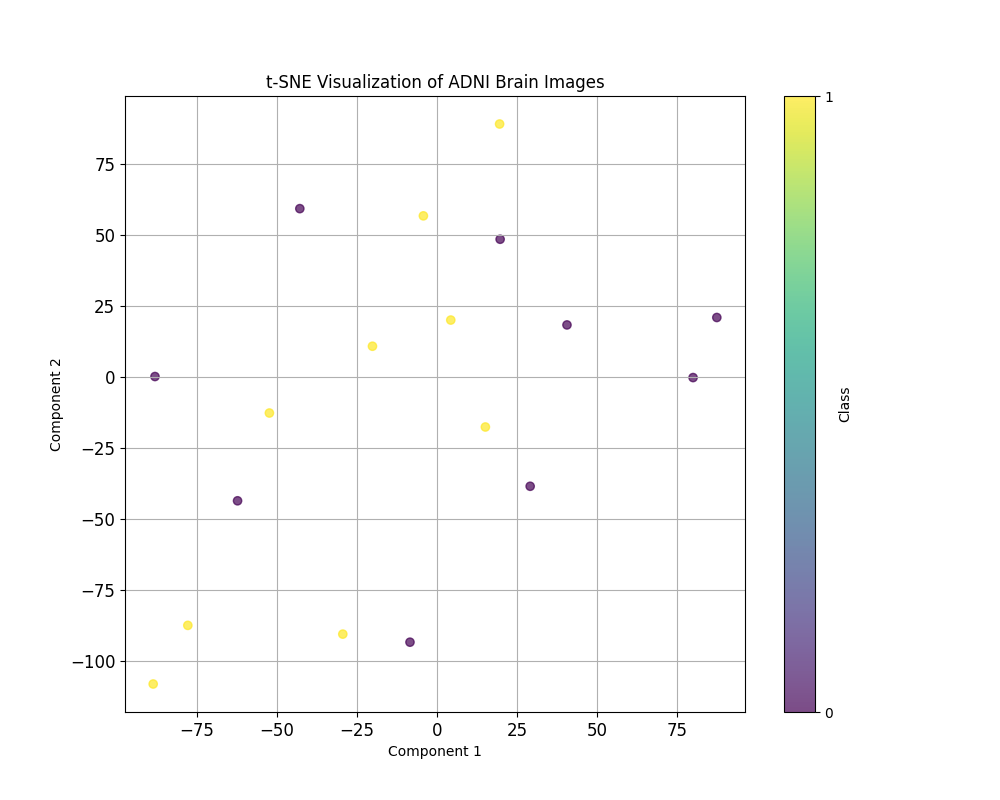
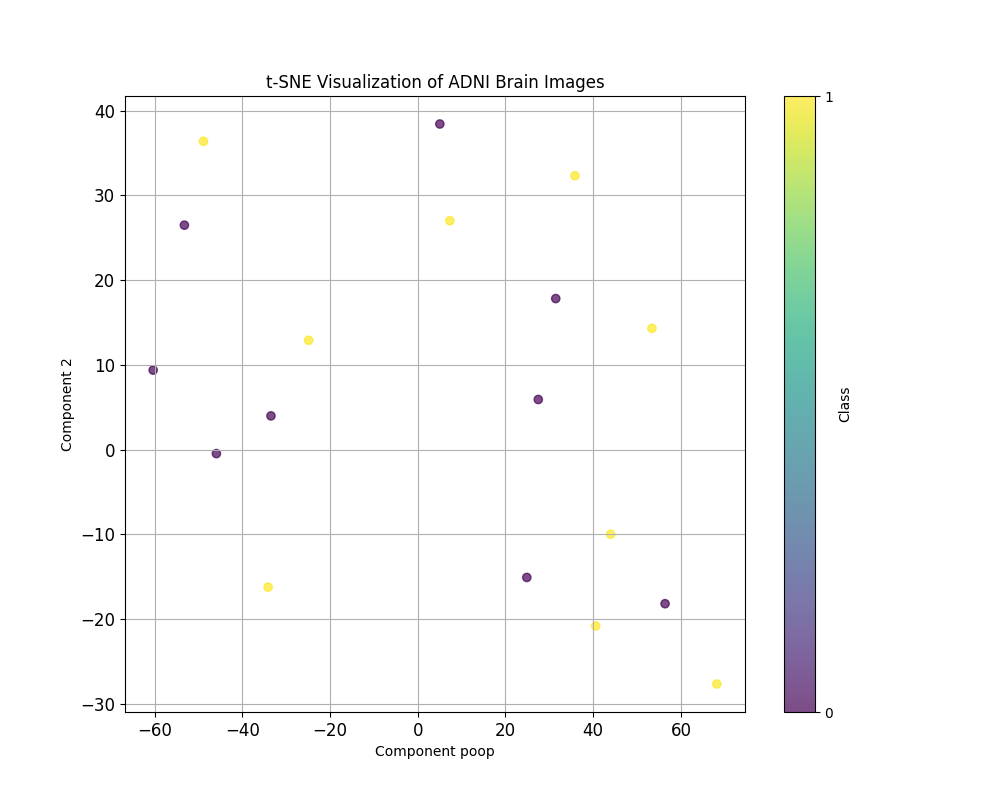
embedding.py model altered, readme updated

diff --git a/recognition/StyleGAN_VBV/embedding.py b/recognition/StyleGAN_VBV/embedding.py
@@ -1,6 +1,5 @@
 import torch
 import torchvision.transforms as transforms
-import torchvision.models as models
 import os
 import numpy as np
 import matplotlib.pyplot as plt
@@ -12,17 +11,12 @@ from PIL import Image
 ad_image_dir = '/home/Student/s4742656/PatternAnalysis-2024/recognition/StyleGAN_VBV/saved_examples/step5/seperate_images/AD'  
 nc_image_dir = '/home/Student/s4742656/PatternAnalysis-2024/recognition/StyleGAN_VBV/saved_examples/step5/seperate_images/NC' 
 
-# Load the pre-trained ResNet model
-model = models.resnet50(weights='IMAGENET1K_V1')  # Load ResNet50 model with ImageNet weights
-model.eval()  # Set to evaluation mode
-
 # Define the preprocessing transformations for the input images
 preprocess = transforms.Compose([
-    transforms.Resize((224, 224)),  # Resize imgs to 224x224
-    transforms.ToTensor(),  # Convert imgs to tensor format
+    transforms.Resize((224, 224)),  # Resize images to 224x224
+    transforms.ToTensor(),  # Convert images to tensor format
     transforms.Normalize(mean=[0.485, 0.456, 0.406], std=[0.229, 0.224, 0.225]),  # Normalize based on ImageNet stats
 ])
-
 
 def load_and_preprocess_images(image_dir, label):
     """ Load and preprocess images from a specified directory. """
@@ -36,10 +30,9 @@ def load_and_preprocess_images(image_dir, label):
         img_tensor = preprocess(img)  # Preprocess image
         img_tensor = img_tensor.unsqueeze(0)  # Add a batch dimension for model input
 
-        # Extract features using the pre-trained model
-        with torch.no_grad():  # Disable gradient computation for inference
-            feature = model(img_tensor)
-        features.append(feature.numpy().flatten())  # Flatten the feature tensor and append to the list
+        # Simple feature extraction: use pixel values as features
+        feature = img_tensor.numpy().flatten()  # Flatten the tensor and append to the list
+        features.append(feature)  # Append feature to the list
         labels.append(label)  # Append the label for this image
 
     return np.array(features), labels  # Return the features and labels as arrays

diff --git a/recognition/StyleGAN_VBV/README.md b/recognition/StyleGAN_VBV/README.md
@@ -95,7 +95,7 @@ The Discriminator evaluates the authenticity of both real and generated images. 
 </div>
 
 ### t-SNE Embedding
-- A t-SNE embedding visualization is generated to analyze the distribution of latent space representations. This helps in understanding how well the model captures the diversity of the training data.
+- This section of the code utilizes t-SNE (t-distributed Stochastic Neighbor Embedding) to visualize high-dimensional features extracted from brain images. Initially, PCA (Principal Component Analysis) is employed to reduce the dimensionality of the feature set while preserving variance. Subsequently, t-SNE projects these PCA-reduced features into a two-dimensional space, with the perplexity parameter set to balance local and global data structures. The resulting scatter plot displays clusters of similar images, effectively differentiating between classes, such as Alzheimer's disease and normal controls, based on their extracted features. This visualization aids in understanding the relationships and separability of the classes within the dataset.
 
 <div style="text-align: center;">
   <img src="images/tsne_visualization.png" alt="TSNE Embedding Plot for Generated Images" style="width:300px;"/>
